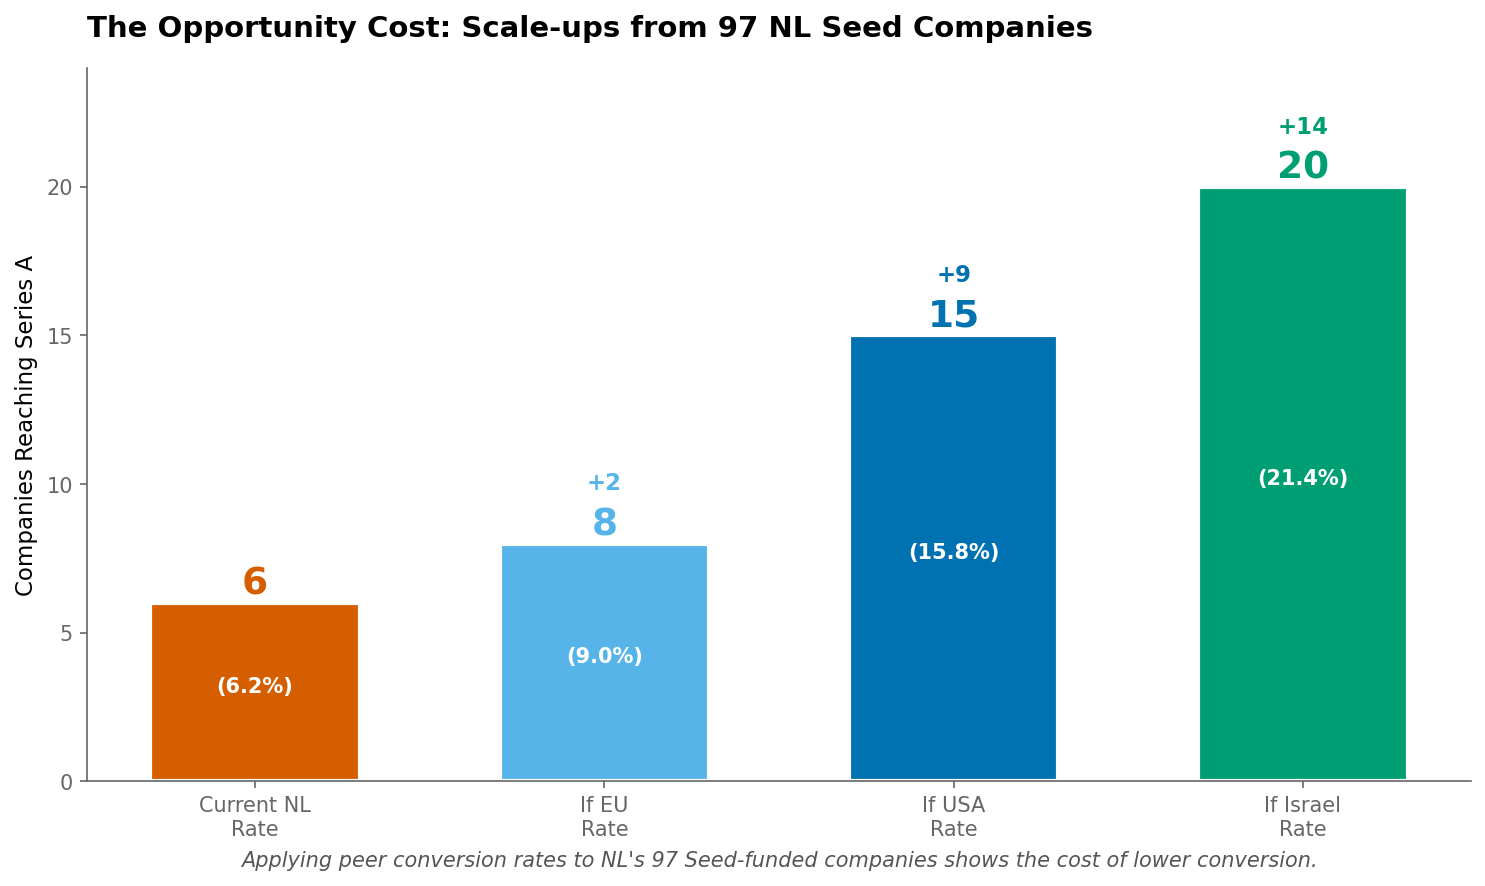
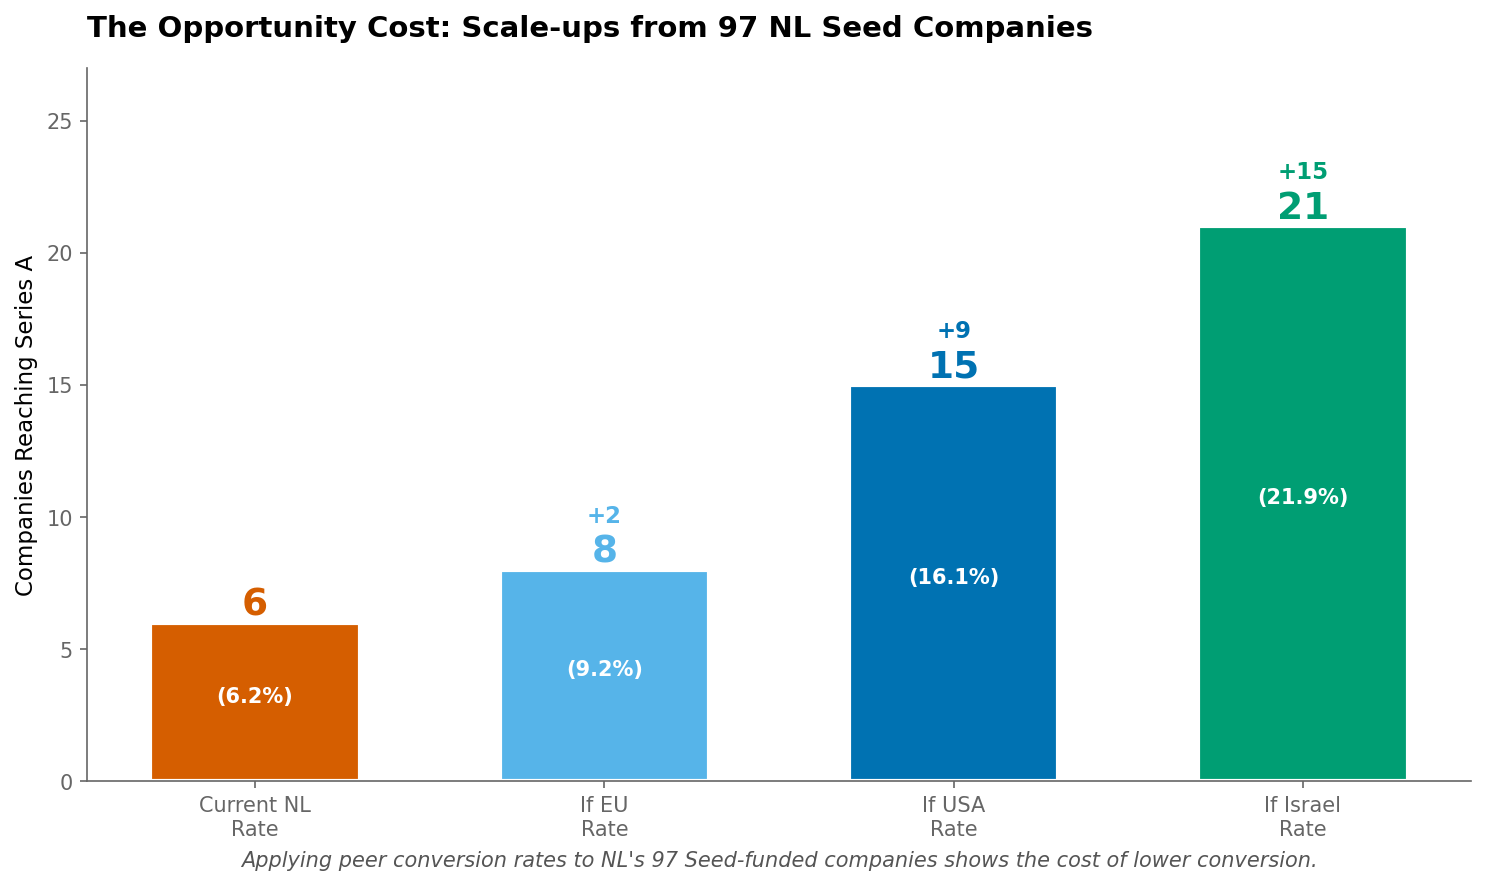
fix: use consistent cohort, correct exit label, update limitations
- Chart 2 now uses df_filtered (2005-2014 cohort) for consistency
- Changed exit label from "acquired or IPO" to "acquired" (0 IPOs in data)
- Updated Dutch sample size to 305 in limitations
- Added limitation about exit data only capturing acquisitions

diff --git a/task-1-analysis/report.md b/task-1-analysis/report.md
@@ -82,7 +82,8 @@ The bottleneck isn't Dutch founders—they perform equally well at Series B. It'
 ## Limitations
 
 - Data ends in 2014; the ecosystem has evolved significantly
-- Small Dutch sample (~400 companies); results are directional, not definitive
+- Small Dutch sample (305 companies); results are directional, not definitive
+- Exit data only captures acquisitions, not IPOs (0 IPOs in dataset)
 - No founder-level data; team quality may drive outcomes
 - No exit valuations (an acquisition ≠ a good outcome)
 - Companies may relocate HQ between funding rounds
